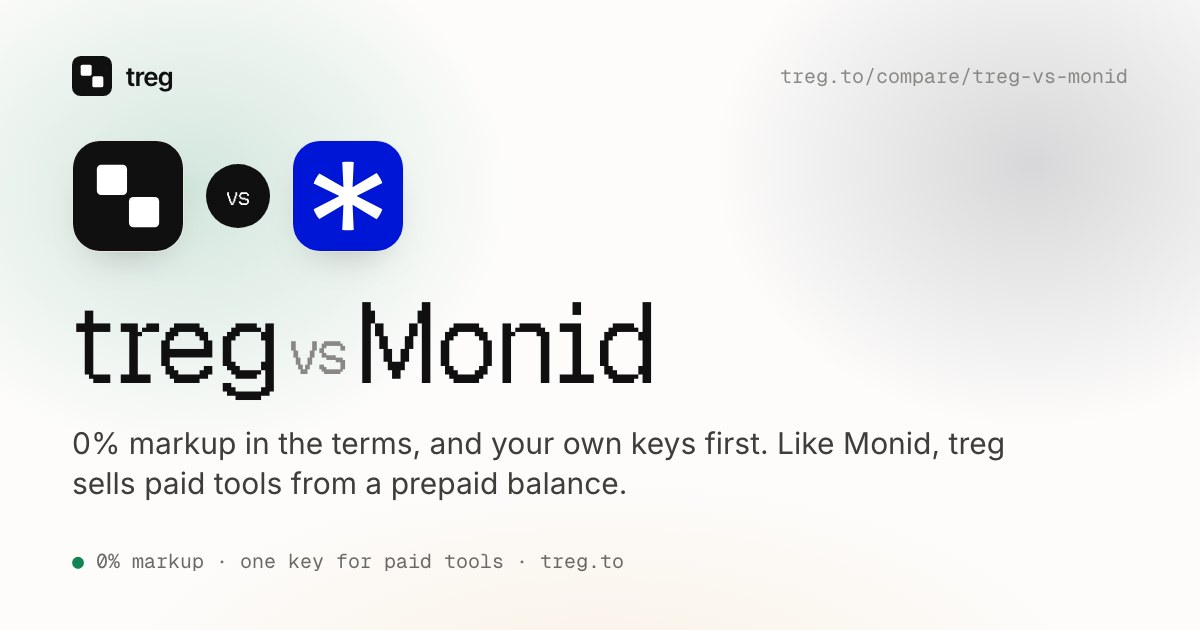
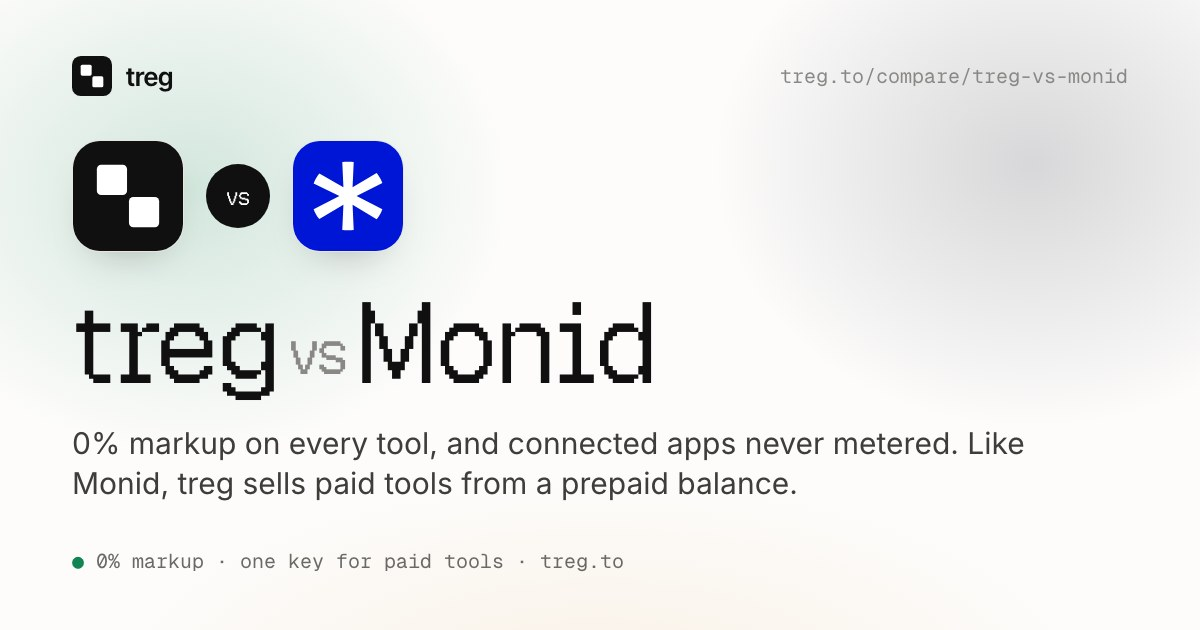
fix(compare): bring one comparison page up to date with the other product's own pages
The other product's terms now state no markup on most of its endpoints, its home page
shows a larger tool count, and its dashboard has a daily budget and a per-call limit.
The page now says so, and leads treg's side with connected apps that are never metered.

Changed region(s): [[0.185, 0.6937, 0.8633, 0.7238], [0.0617, 0.754, 0.6783, 0.7841]]

diff --git a/src/treg/compare_pages.py b/src/treg/compare_pages.py
@@ -643,16 +643,17 @@ COMPETITORS: dict[str, dict] = {
         "logo": "/media/compare/logos/monid.svg",
         "logo_fills": True,
         "title": "treg vs Monid: two tool catalogs for AI agents",
-        "description": "Monid and treg both give agents paid tools from a prepaid balance. treg adds "
-                       "0% markup in its terms and your own keys, never metered.",
-        "sub": "0% markup in the terms, and your own keys first. Like Monid, treg sells paid tools "
-               "from a prepaid balance.",
+        "checked": "2026-11-06",
+        "description": "Monid and treg both sell agents paid tools from a prepaid balance. treg adds "
+                       "0% markup on every tool and unmetered connected apps.",
+        "sub": "0% markup on every tool, and connected apps never metered. Like Monid, treg sells "
+               "paid tools from a prepaid balance.",
         "their_words": "Connect your agent to every tool it needs.",
         "tldr": "Monid and treg both give agents a catalog of paid tools from a prepaid balance, with "
                 "$1 to start and no subscription. treg is like OpenRouter for tools: one API key and "
                 "one balance for many paid APIs. treg has {ENDPOINTS} tools across {PROVIDERS} "
-                "providers, 0% markup written into its terms, your own keys and connected accounts "
-                "never metered, and team spend caps. Monid publishes its connector definitions and "
+                "providers, 0% markup on every tool written into its terms, your own keys and "
+                "connected apps never metered, and roles and call caps for each member. Monid publishes its connector definitions and "
                 "engine under MIT, with a large community on GitHub. treg's whole registry is on "
                 "GitHub too, and you can self-host it for your team.",
         "spec": {"billing": "Prepaid, per call or result", "start": "$1",
@@ -664,19 +665,21 @@ COMPETITORS: dict[str, dict] = {
             "You want discovery that ranks candidate tools by fit and price.",
         ],
         "fit_treg": [
+            "Your agent works in your own Google, Meta, TikTok, LinkedIn, Slack or YouTube accounts, "
+            "connected once and never metered.",
             "You want your own provider keys on the hosted service, used first and never metered.",
-            "Your agent works in your own Google Analytics, Search Console, Google Ads or Meta Ads "
-            "accounts.",
             "You want your team's own APIs, CLIs and skills behind the same token.",
-            "You want a team daily spend cap, a per-call cost ceiling and per-member call caps.",
-            "You want 0% markup written into the terms, and code on GitHub you can self-host.",
+            "You want roles, tool access and daily call caps for each member of your team.",
+            "You want 0% markup on every tool, written into the terms, and code on GitHub you can "
+            "self-host.",
         ],
         "cells": _c(
             how_pay="A prepaid wallet, pay as you go. No subscription.",
             free_start="$1 to start.",
-            fees="Per-call or per-result prices. A markup is not published.",
+            fees="0 Markup on most endpoints: the provider's standard rate, with no platform fee. "
+                 "Endpoints without the label may include a platform fee.",
             x402="Yes: USDC on Base or Monad.",
-            catalog="2,800+ tools across 90+ providers.",
+            catalog="2,900+ tools across 90+ providers.",
             data="Yes: sales intelligence, media generation, voice, web search and scraping, social and "
                  "marketplace data, SEO, people and brand data, DeFi.",
             own_accounts=NOT_PUBLISHED,
@@ -689,7 +692,7 @@ COMPETITORS: dict[str, dict] = {
             open_source="The connector layer and engine are MIT-licensed. The hosted platform is not "
                         "published.",
             price_before="Yes: prices in discover, inspect and run responses.",
-            caps=NOT_PUBLISHED,
+            caps="A daily budget and a per-call limit for a workspace.",
             logs="Runs and wallet activity.",
             team="Workspaces. Roles are not published.",
         ),
@@ -705,17 +708,18 @@ COMPETITORS: dict[str, dict] = {
              "rankings page."),
         ],
         "different": [
-            ("0% markup, in the terms.", "Each tool is billed at the provider's own rate, and no markup is "
-             "a commitment in treg's terms. No top-up fee."),
-            ("A large catalog, plus your own tools.", "{ENDPOINTS} tools across {PROVIDERS} providers "
-             "(Monid lists 2,800+ across 90+), and your team's own APIs, CLIs and skills behind the same "
-             "token."),
+            ("Your apps, connected and free.", "Connect Google Analytics, Search Console, Google Ads, "
+             "Meta Ads, TikTok, Instagram, LinkedIn, Slack, YouTube and more by OAuth once. treg never "
+             "meters those calls; X alone bills its own per-use price."),
+            ("0% markup on every tool.", "Every catalog tool is billed at the provider's own rate, a "
+             "commitment in treg's terms. No top-up fee."),
             ("Your own keys, on the hosted service.", "Register your key for a provider and treg uses it "
              "first, every time, and never meters the call."),
-            ("Your connected accounts.", "Google Analytics, Search Console, Google Ads, Meta Ads, LinkedIn, "
-             "Slack and YouTube, connected by OAuth and never metered."),
-            ("Spend controls for a team.", "A team daily spend cap, a per-call cost ceiling and per-member "
-             "daily call caps, with owner, admin, member and viewer roles."),
+            ("A large catalog, plus your own tools.", "{ENDPOINTS} tools across {PROVIDERS} providers "
+             "(Monid lists 2,900+ across 90+), and your team's own APIs, CLIs and skills behind the same "
+             "token."),
+            ("Controls for each member.", "Owner, admin, member and viewer roles, tool access per member "
+             "and daily call caps per member, on top of team spend caps."),
         ],
         "both": "Both are remote MCP servers with an API, a CLI and an agent skill. Search both for the "
                 "tools you need, and compare the price of the calls you will make.",
@@ -725,9 +729,9 @@ COMPETITORS: dict[str, dict] = {
                  "catalog of paid tools from a prepaid balance. treg also puts your team's own APIs, "
                  "CLIs and skills behind the same token, beside the catalog."),
             ("How much does Monid cost?",
-                 "Monid pricing is per call or per result from a prepaid wallet, for example $0.003 a "
-                 "call, with $1 to start and no subscription. Monid shows prices in its discover, "
-                 "inspect and run responses."),
+                 "Monid pricing is per call or per result from a prepaid wallet, with $1 to start and "
+                 "no subscription. Most Monid endpoints carry 0 Markup, the provider's standard rate. "
+                 "Monid shows prices in its discover, inspect and run responses."),
             ("Can I use my own API keys with Monid?",
                  "Monid does not publish this for its hosted service; the open-source Monid engine can "
                  "run a connector locally with your own vendor key. On treg, your team's key for a "
@@ -735,17 +739,16 @@ COMPETITORS: dict[str, dict] = {
             ("Monid vs treg: what is the difference?",
                  "The main difference is what each one adds. Monid offers MIT-licensed connectors, "
                  "agent email and phone tools, and discovery ranked by fit and price. treg connects "
-                 "your Google Analytics, Search Console, Google Ads, Meta Ads, LinkedIn, Slack and "
-                 "YouTube accounts, never metered, and sets a team daily spend cap, a per-call cost "
-                 "ceiling and per-member daily call caps."),
+                 "your Google, Meta, TikTok, LinkedIn, Slack and YouTube accounts by OAuth, never "
+                 "metered, and gives each team member a role and a daily call cap."),
             ("Can I use Monid and treg together?",
                  "Yes. Monid and treg are both remote MCP servers with an API, a CLI and an agent "
                  "skill, so one agent can hold both connections. Search Monid and treg for the tools "
                  "you need, and compare the price of the calls you will make."),
             ("How does treg pricing work compared with Monid?",
-                 "treg bills each call at the provider's own rate, with 0% markup written into its "
-                 "terms and no top-up fee. treg gives $1.00 of credit once per new verified account, "
-                 "with no card. Monid does not publish a markup."),
+                 "treg bills every catalog call at the provider's own rate, with 0% markup on every "
+                 "tool written into its terms and no top-up fee. Monid charges 0 Markup on most "
+                 "endpoints. treg gives $1.00 of credit once per new verified account, with no card."),
             ("Can I self-host treg?",
                  "Yes. treg's code is on GitHub under Apache 2.0 with added terms, and you can "
                  "self-host treg for your own team. Monid's connector layer and engine are "
@@ -756,6 +759,9 @@ COMPETITORS: dict[str, dict] = {
             ("How it works", "https://monid.ai/docs/guide/how-it-works.md"),
             ("Pay with x402", "https://monid.ai/docs/guide/pay-with-x402.md"),
             ("API overview", "https://monid.ai/docs/api/overview.md"),
+            ("Terms, 0 Markup pricing", "https://monid.ai/legal/terms"),
+            ("Monid for agents (llms.txt)", "https://monid.ai/llms.txt"),
+            ("Budgets, in the dashboard (sign-in needed)", "https://app.monid.ai/rules"),
             ("Monid on GitHub", "https://github.com/monid-ai/monid"),
         ],
     },
